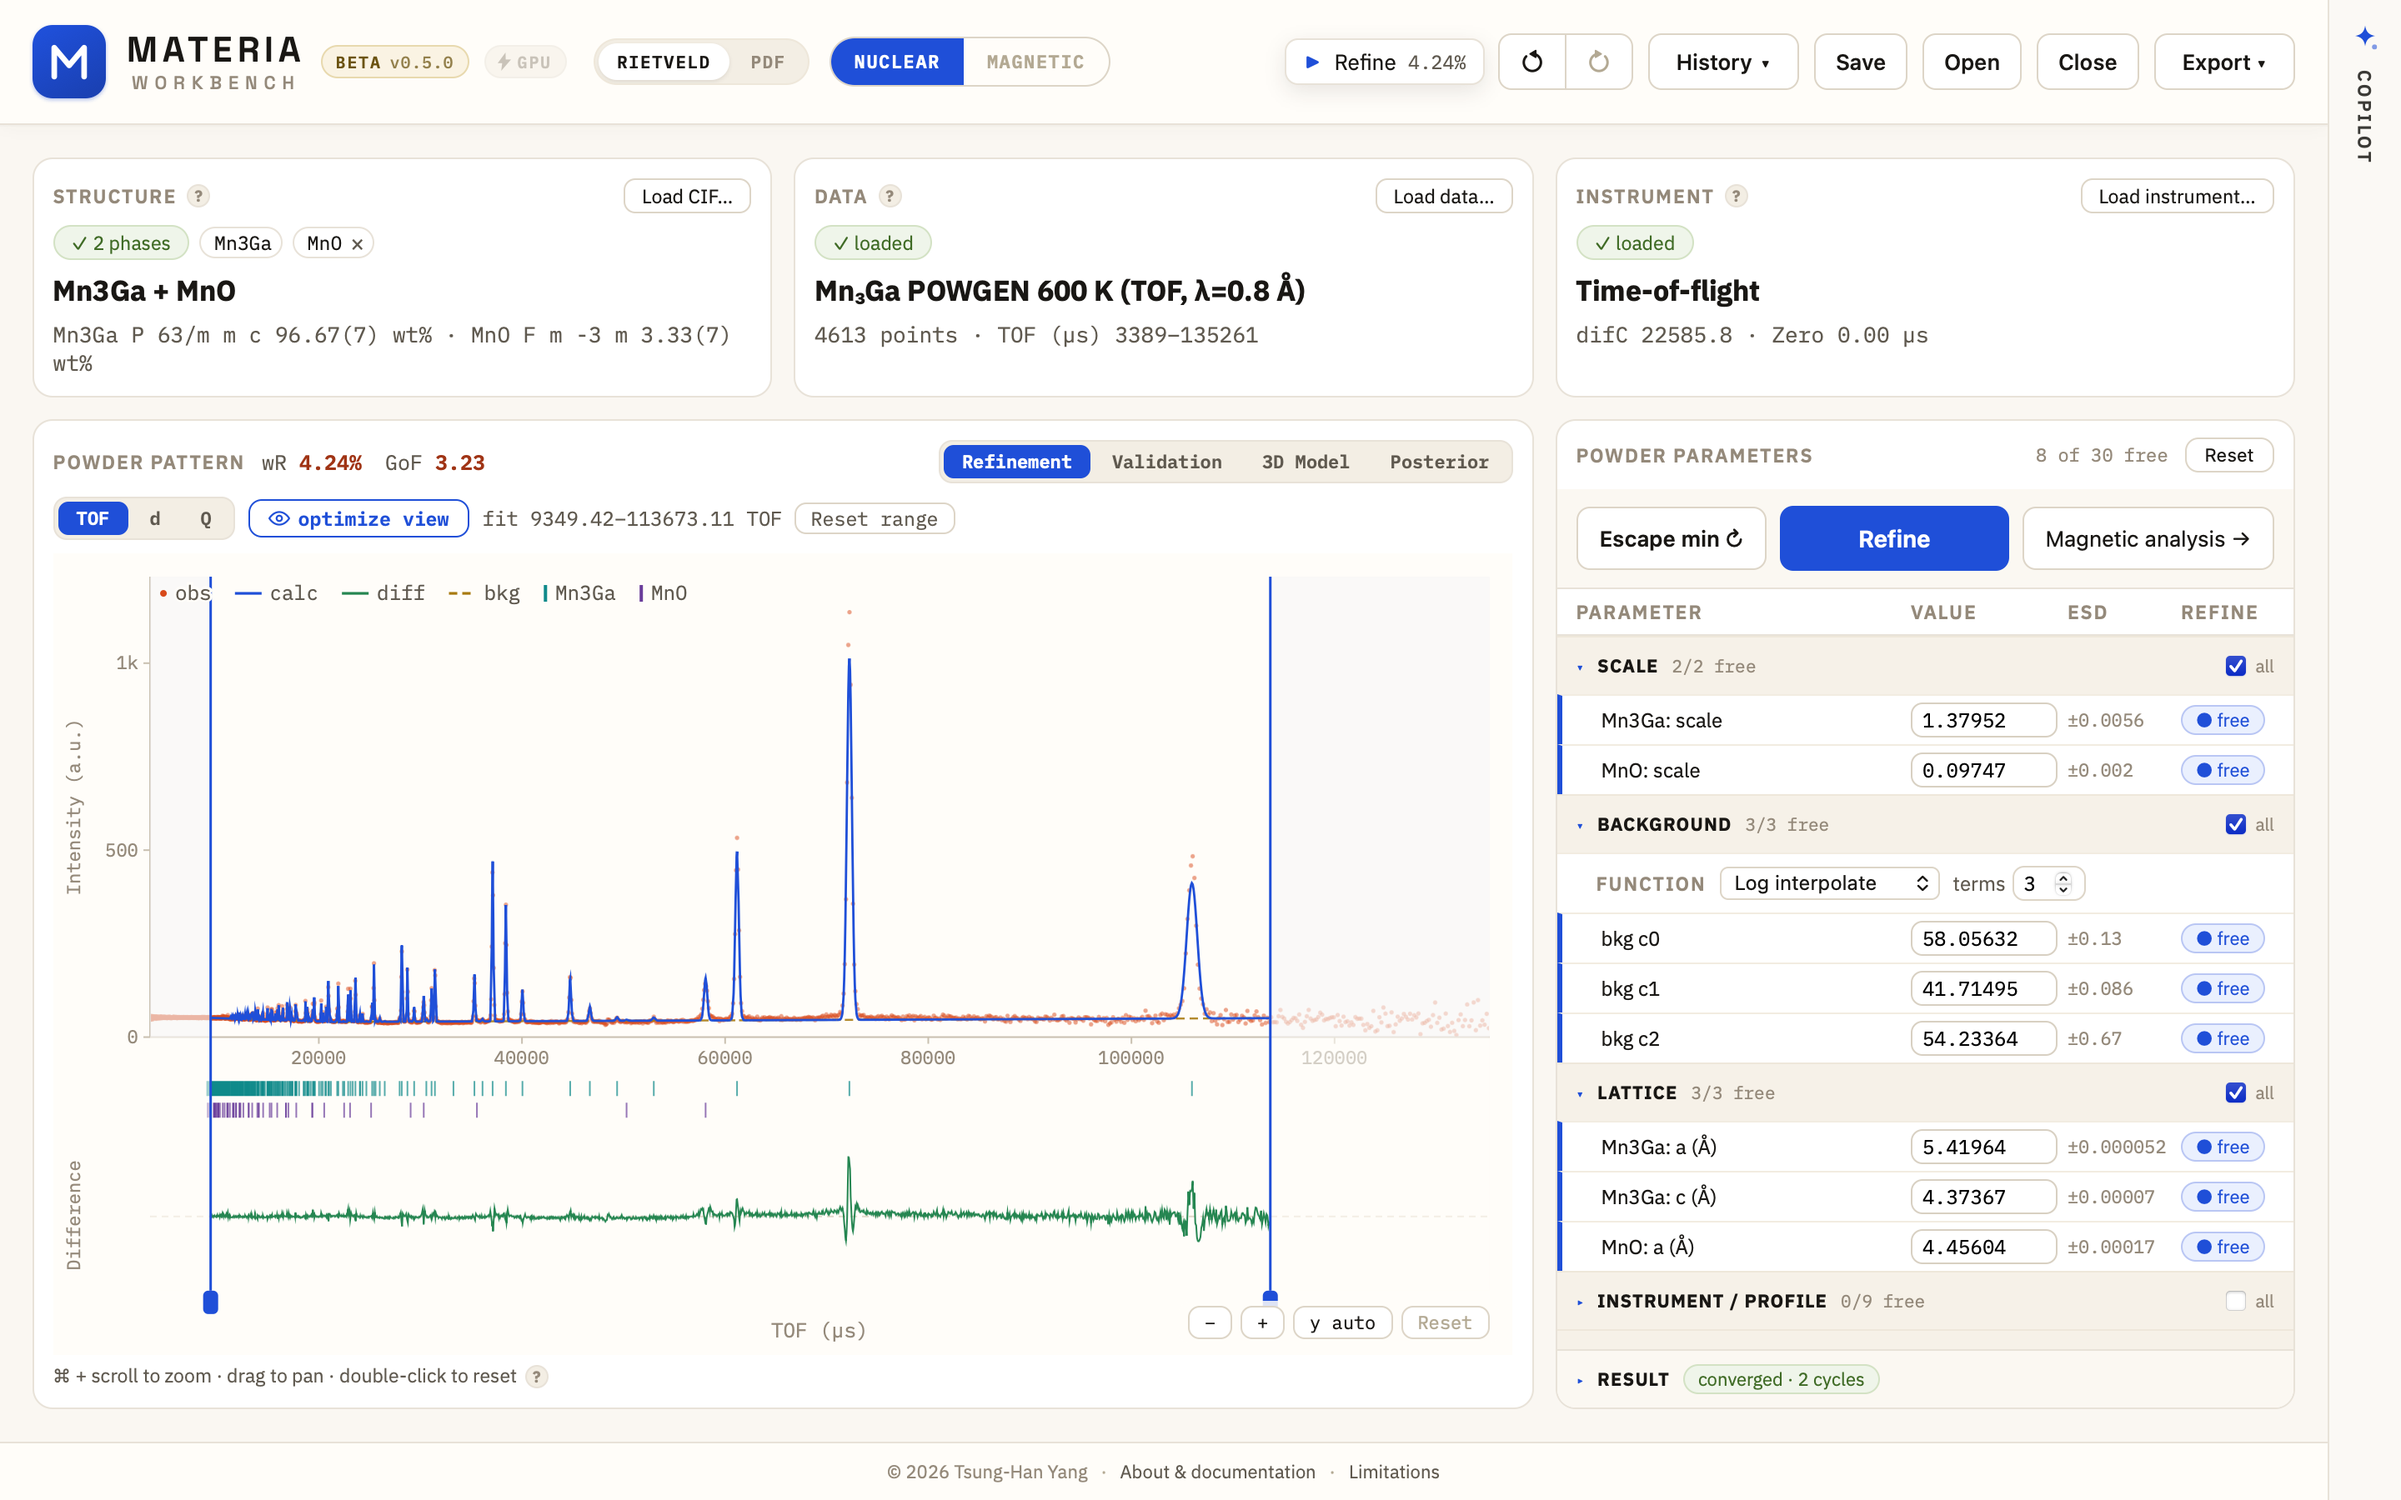
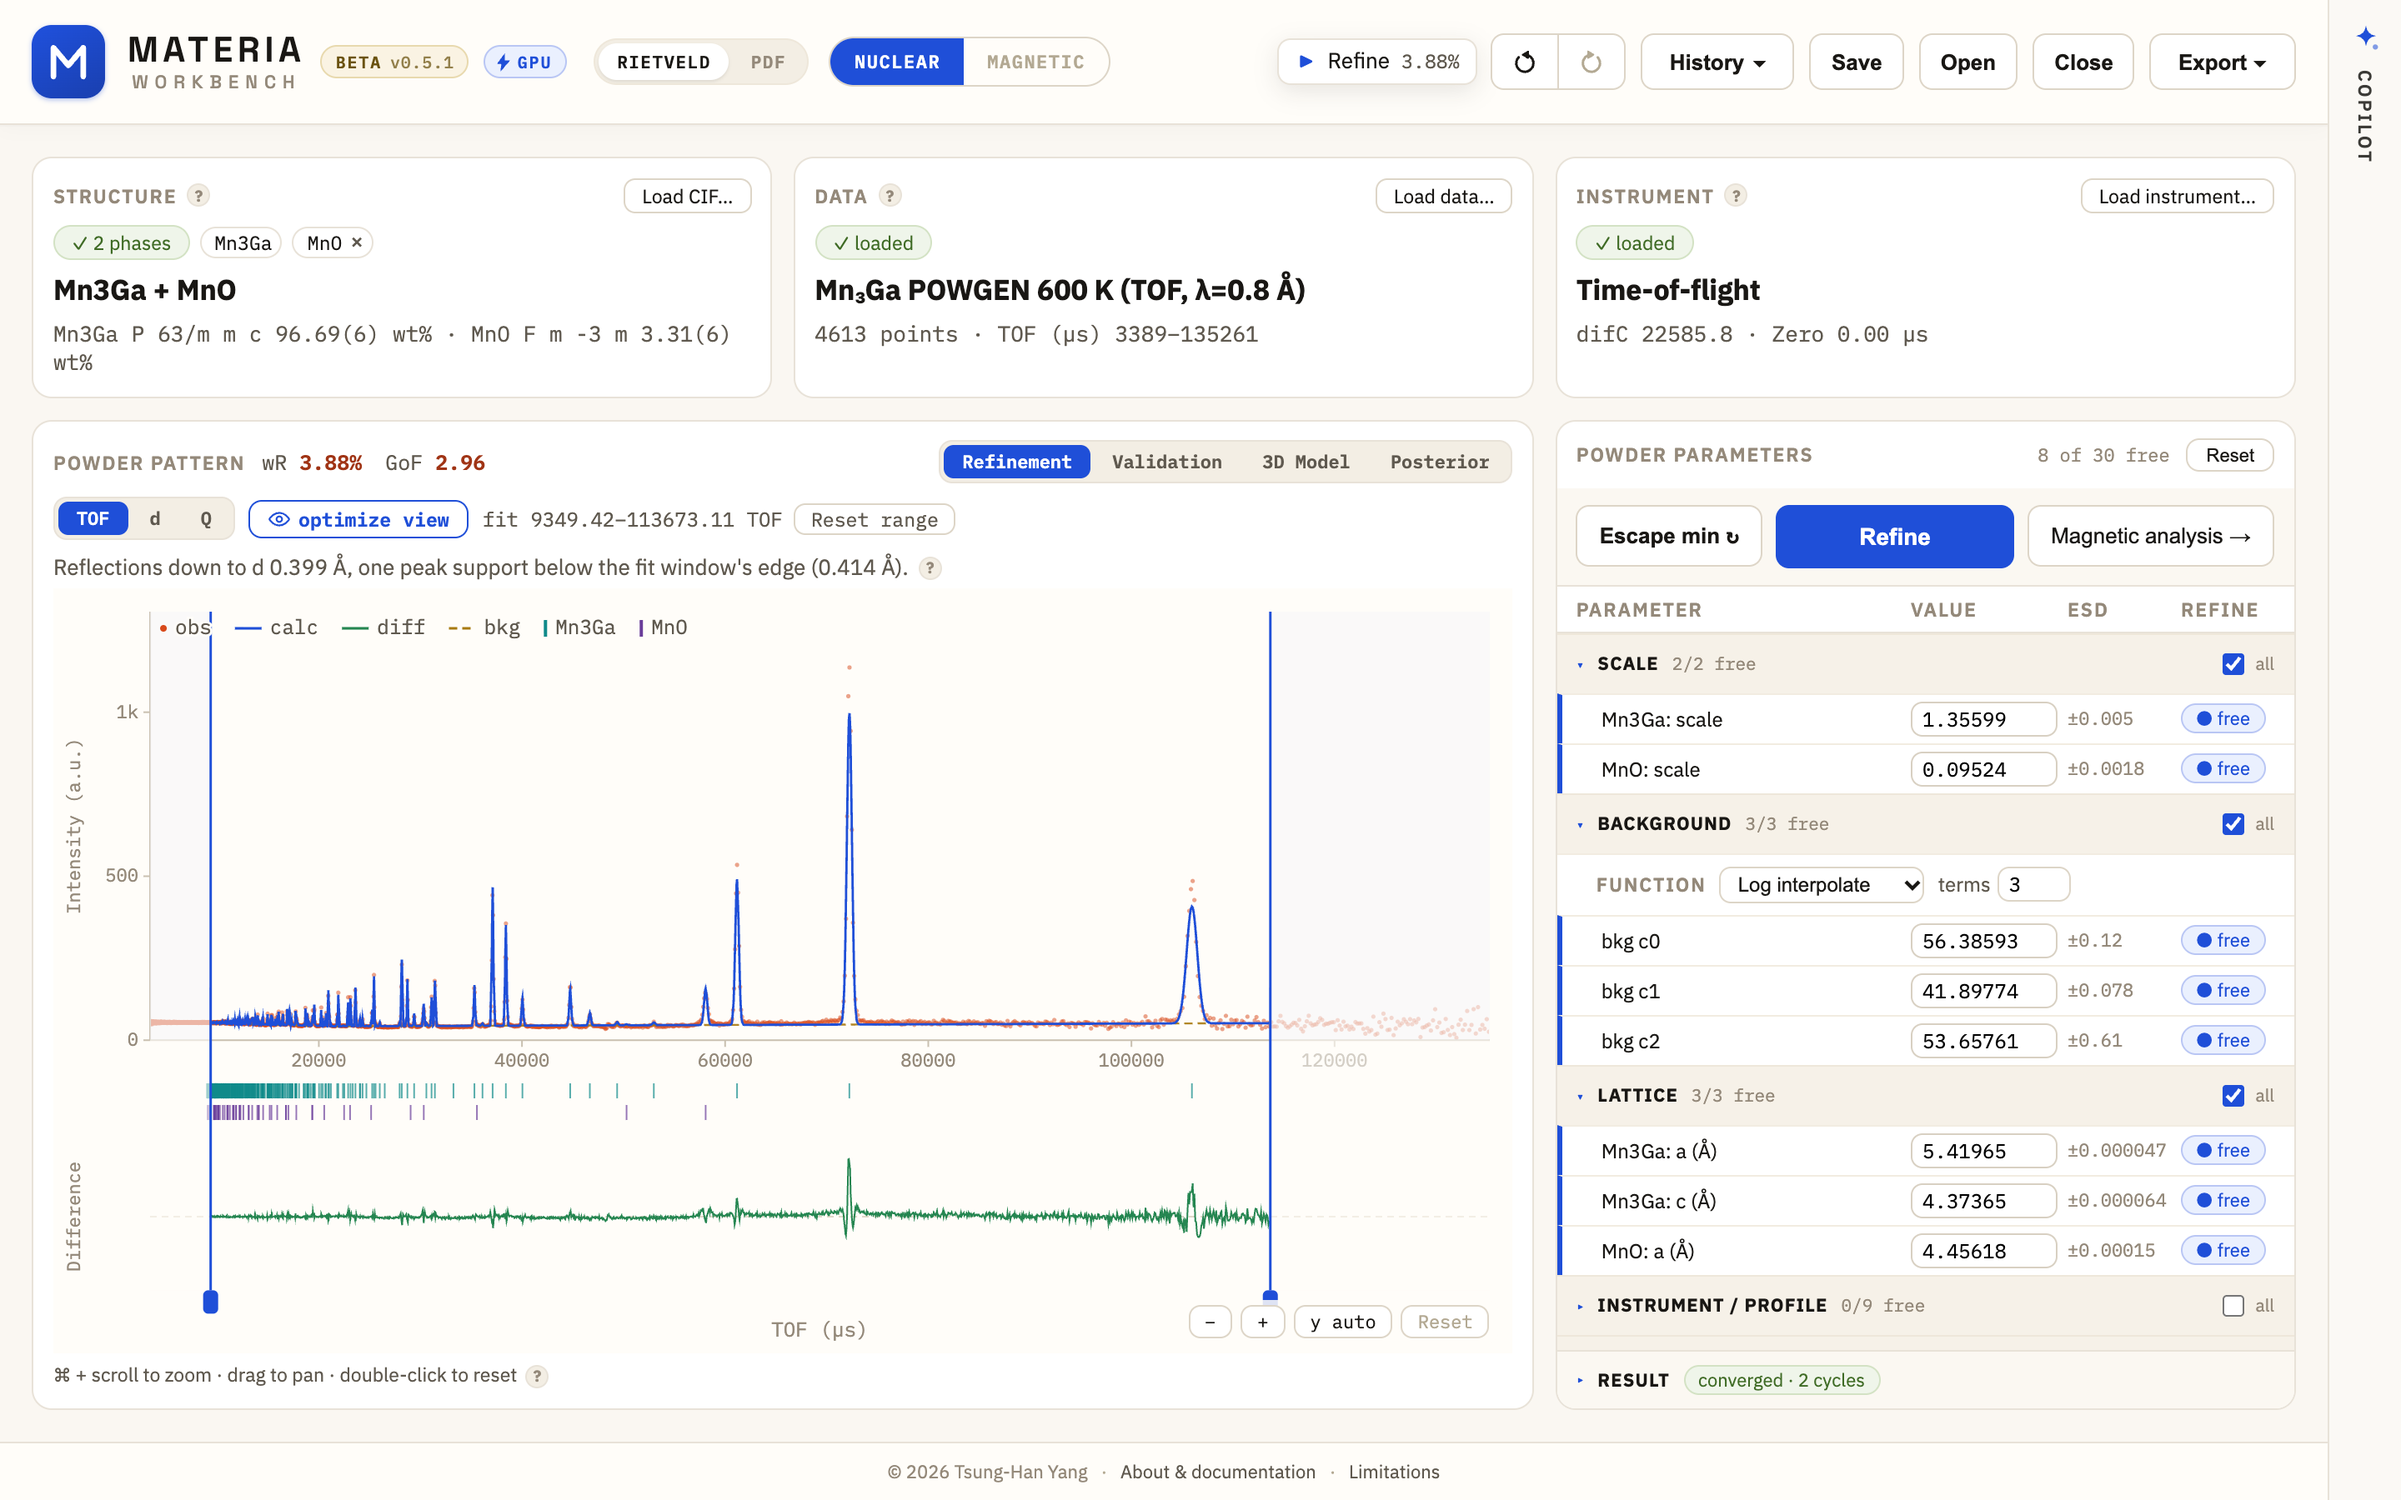
Docs and demo materials for THY-90: the demo's new numbers, the fit window as the shortest-d control
README (twice, the screenshot's alt text included), the user guide, the demo
script (wR 3.88 %, GoF 2.96, MnO 3.31(6) wt %) and the landing card (wR 3.9 %);
the README screenshot retaken at 1440x900@2x with the app's (c) line, now
with the line that says where the reflections stop. LIMITATIONS: where d_min
is and the points left out, the X-ray limit, the bin-centre and resolution
approximations, the constant-wavelength edge. CHANGELOG.

diff --git a/src/app/demos.ts b/src/app/demos.ts
@@ -22,7 +22,7 @@ export const DEMOS: readonly DemoEntry[] = [
     id: "rietveld",
     kicker: "Rietveld · reciprocal space",
     title: "Mn₃Ga neutron TOF",
-    blurb: "Two-phase POWGEN fit at 600 K (paramagnetic, with a MnO impurity) · wR 4.2%",
+    blurb: "Two-phase POWGEN fit at 600 K (paramagnetic, with a MnO impurity) · wR 3.9%",
   },
   {
     id: "magnetic",

diff --git a/docs/LIMITATIONS.md b/docs/LIMITATIONS.md
@@ -231,6 +231,20 @@ approximate, however plausible its output looks.
   range needing more than 300 000 reflection families (or 6×10⁷ index triples,
   or an index above 2047) is an error naming the cell, as a typo'd or diverged
   cell usually is.
+- Where d_min is: on time of flight, the fit window's short-d edge less one
+  peak support (the lines just outside the window are drawn, so every point in
+  it has all its lines), stopped earlier only where the peak terms give no
+  peak (σ², α or β not positive below some d: an instrument file's
+  polynomials past the range its standard covered); at constant wavelength,
+  the data's own range; for X-rays never below 0.25 Å (sin θ/λ = 2.0 Å⁻¹, the
+  range the four-Gaussian form factors are valid over). The points a list does
+  not reach are left out of the fit and of wR, GoF and the point count, and the
+  page says where the list stops and why. Magnetic satellites keep d ≥ 0.5 Å on
+  time of flight. A fresh page fits the whole pattern; when the window reaches
+  well below the last resolved lines (spacing under one line width, binning
+  included), the page and `check_fit_range` suggest trimming it there, which
+  is faster and changes nothing above. The Prefit's Le Bail list and the tick
+  rows take the same range.
 - Constant-wavelength peaks: Gaussian or pseudo-Voigt, with Caglioti U/V/W
   widths, a Thompson–Cox–Hastings Lorentzian size/strain term, and
   Finger–Cox–Jephcoat axial asymmetry.
@@ -245,7 +259,10 @@ approximate, however plausible its output looks.
   (GSAS-II's definitions, starting at GSAS-II's new-phase 1000 and 1 µm) and
   a Gaussian microstrain are rows beside them, and a profile stage refines the
   sample's rows. Where the file gives no positive width inside the data's
-  d-range the reflections are not drawn and the Instrument card says where.
+  d-range the reflections are not drawn and the Instrument card says where;
+  at the short-d end the list stops there and the points below are not
+  fitted. Just above such a d the decay rate β is small, so those few lines
+  carry long tails as the file gives them.
   The Lorentzian tails are drawn out to where they hold less than 0.02 % of a
   peak; the first evaluation of such a pattern is slow, and later ones reuse
   the peaks that did not move.
@@ -311,10 +328,19 @@ approximate, however plausible its output looks.
   On time-of-flight data it is a back-to-back exponential with four refined
   width terms (σ₁², σ₂², α, β₀), not the instrument's full resolution curve. An
   impurity's expansion is limited to ±3 %. The gate reads d ≥ 0.7 Å by default.
+- A TOF peak is evaluated at the bin centre, not integrated over the bin; at
+  short d, where a line is about one bin wide, that limits the accuracy.
+- The "last resolved lines" a trim is suggested at are read from the model
+  (each phase's lines at their calculated intensities and the profile's
+  widths), not from the data's noise.
+- A constant-wavelength list is the data's range: a line just beyond the
+  data's last point whose tail reaches into it is not drawn.
 
 **Not yet**
 - Spherical-harmonic texture; powder extinction; microabsorption (Brindley);
   flat-plate absorption.
+- X-ray form factors beyond sin θ/λ = 2.0 Å⁻¹ (Waasmaier–Kirfel, THY-92):
+  until then an X-ray list stops at d = 0.25 Å.
 - High-angle axial asymmetry; the Ikeda–Carpenter moderator peak shape; TOF
   absorption and extinction.
 - Sample size and Lorentzian microstrain rows for a FullProf session; FullProf's

diff --git a/docs/DEMO_SCRIPT.md b/docs/DEMO_SCRIPT.md
@@ -43,7 +43,7 @@ Do this 15 minutes before, on the machine you will present from.
 | # | Clock | Do | Say |
 | --- | --- | --- | --- |
 | 0 | 0:00–0:30 | The start page. | "Crystal and magnetic structure refinement in the browser: nothing to install, and the data never leave this machine." |
-| 1 | 0:30–1:30 | **Rietveld · Mn₃Ga neutron TOF** (0.3 s), then **Refine** (0.2 s). Point at wR 4.24 %, GoF 3.23 and MnO 3.33(7) wt % on the Structure card. Open **Validation**. | "A two-phase time-of-flight neutron fit; every number with its esd from the engine, and Validation reads the fit against an acceptance bar." |
+| 1 | 0:30–1:30 | **Rietveld · Mn₃Ga neutron TOF** (0.3 s), then **Refine** (0.2 s). Point at wR 3.88 %, GoF 2.96 and MnO 3.31(6) wt % on the Structure card. Open **Validation**. | "A two-phase time-of-flight neutron fit; every number with its esd from the engine, and Validation reads the fit against an acceptance bar." |
 | 2 | 1:30–2:45 | **Magnetic analysis →**, **Include them in the k-search**, **Search k from … peaks** (instant), then **Rank 14 candidates against the data** (18–29 s; narrate while it runs). | "From the residual to k, to the magnetic space groups k allows, each fitted against the data. At 600 K this sample is paramagnetic, and the app says no candidate beats the nuclear-only fit instead of inventing moments." |
 | 3 | 2:45–3:30 | **Close** (**Discard** if asked), **PDF · GaTa₄Se₈ X-ray G(r)** (about 1 s), **Refine** (1 s). | "The same engine in real space: an X-ray PDF at 299 K, fitted with the cubic average structure, Rw 8.1 %." |
 | 4 | 3:30–4:45 | **Subgroups**: the 2×2×2 list streams in (about 8 s; narrate). The **Tree** shows F-43m's five maximal subgroups; click **P-43m #215** (X·1) for its detail. The k-point chips carry the Bilbao server's names: X, L, W, and on the lines **Δ (0, 0, 1/2)** and **Σ (0, 1/2, 1/2)**. Then **List**, **Supercell** → **1×1×2** (about 4 s), **Find** `P-42_1m`, click the 1×1×2 row (24 dom). | "The subgroup engine is built in, not looked up: irreps, isotropy subgroups and the lattice within a supercell, checked against Bilbao and ISODISTORT." |

diff --git a/CHANGELOG.md b/CHANGELOG.md
@@ -106,6 +106,32 @@ release fixes bugs.
 
 ### Changed
 
+- **Reflections at short d on time of flight follow the fit window (THY-90).**
+  The fixed floor at d = 0.5 Å is gone: a TOF reflection list reaches the fit
+  window's short-d edge less one peak support, and stops earlier only where
+  the peak terms define no peak (σ², α or β not positive, an instrument file
+  extrapolated past its standard's range). X-ray lists stop at d = 0.25 Å
+  (sin θ/λ = 2.0 Å⁻¹, the form-factor table's range). Points a list does not
+  reach are left out of the fit and of wR, GoF and the point count; before,
+  they were fitted with the background alone, which biased the background and
+  the ADPs. A line under the plot toolbar says where the reflections stop and
+  why, how many points are left out, and, when the window reaches well below
+  the last resolved lines, the d to trim it at; `check_fit_range` proposes
+  that trim ("unresolved-lines") and `get_state` and `check_fit_range` carry
+  the line (`reflectionsTo`). The Prefit's Le Bail list and the tick rows take
+  the same range. Magnetic satellites keep d ≥ 0.5 Å. A refinement step that
+  makes the page's own TOF widths invalid inside the data is rejected, as one
+  on an instrument file's already was.
+- **The bundled Mn₃Ga demo moves: wR 4.24 % → 3.88 %, GoF 3.23 → 2.96.** Its
+  window starts at d = 0.414 Å, and 160 of its reflection families were not
+  calculated. The snapshot is re-made with the same steps: B(Mn)
+  1.096 → 1.008(25) Å², B(Ga) 0.961 → 0.922(14) Å², MnO 3.33(7) → 3.31(6) wt %.
+- A fresh time-of-flight page still fits the whole pattern, so data that
+  reach far below their last resolved lines refine more slowly than before
+  (the bundled POWGEN pattern to 0.150 Å: about 15 ms per pattern against
+  2 ms with the demo's window); trimming the window as suggested restores it.
+
+
 - **Refine moments runs as rounds** (powder page). The moments with every
   nuclear row held, then the scale and the background with the moments held,
   then the moments again, until no moment moves by 0.1 of its esd; at most

diff --git a/docs/USER_GUIDE.md b/docs/USER_GUIDE.md
@@ -43,7 +43,7 @@ The start page shows the **Structure**, **Data** and **Instrument** cards above
 
 - **Rietveld · Mn₃Ga neutron TOF**: a two-phase fit of POWGEN time-of-flight
   data, Mn₃Ga with a MnO impurity. At 600 K the sample is paramagnetic. It
-  opens at wR 4.24 % (GoF 3.23) on a three-point log-interpolate background,
+  opens at wR 3.88 % (GoF 2.96) on a three-point log-interpolate background,
   with the scale, background and cell of both phases free.
 - **PDF · GaTa₄Se₈ X-ray G(r)**: a real-space fit of synchrotron
   total-scattering data at 299 K, with the cubic average structure.
@@ -304,6 +304,22 @@ magnetic model are steps too. Loading a new dataset starts a new history.
 
 - Drag the blue handles on the plot to set the fit window. **Reset range**
   returns to the whole pattern, and **optimize view** zooms onto the window.
+- On time-of-flight data the window's short-d edge is also where the
+  reflections stop: every reflection whose peak reaches a point in the window
+  is calculated, none below. The line under the plot toolbar says where they
+  stop and why ("Reflections down to d … Å, one peak support below the fit
+  window's edge"). A narrower window at short d fits faster and changes
+  nothing above it.
+- The list stops earlier where the model is not valid: below a d where the
+  instrument file's peak terms give no peak (σ², α or β not positive), and,
+  for X-rays, below d = 0.25 Å (the form-factor table's range). The points
+  there are left out of the fit, wR and GoF, and the line, in amber, says how
+  many and why.
+- When the window reaches well below the last resolved lines (a fresh page
+  fits the whole pattern), the same line names the d where they stop and
+  suggests trimming the window there. The Copilot's `check_fit_range`
+  proposes the same cut. Below that d the lines merge; they are calculated,
+  so the fit is complete, only slower.
 - Click a Bragg tick to spotlight its (hkl). The unit buttons (**2θ**,
   **d**, **Q**, **TOF**) change the axis only.
 - To add a phase, load the data, then click **Add CIF…**. Each phase gets its

diff --git a/README.md b/README.md
@@ -13,7 +13,7 @@ language model beside the analysis: it changes things only through the page's ow
 **Live site: [drthyang.github.io/materia-platform](https://drthyang.github.io/materia-platform/)**
 
 <p align="center">
-  <img src="docs/media/desktop.png" alt="The Rietveld page on the bundled Mn₃Ga demo: a two-phase Mn₃Ga and MnO fit of POWGEN time-of-flight neutron data at wR 4.24 %, with observed, calculated and difference curves, a row of Bragg ticks for each phase, and the parameter table with esds" width="100%" />
+  <img src="docs/media/desktop.png" alt="The Rietveld page on the bundled Mn₃Ga demo: a two-phase Mn₃Ga and MnO fit of POWGEN time-of-flight neutron data at wR 3.88 %, with observed, calculated and difference curves, a row of Bragg ticks for each phase, and the parameter table with esds" width="100%" />
 </p>
 
 ## What it does
@@ -70,7 +70,7 @@ Step by step: [set up the Copilot](docs/COPILOT_SETUP.md).
 Both demos are public data and open on a converged fit.
 
 1. **Rietveld.** On the start page click the **Mn₃Ga neutron TOF** demo, then **Refine**: a two-phase
-   fit at wR 4.24 %, with the MnO impurity's weight fraction and its esd. **Validation** gives the
+   fit at wR 3.88 %, with the MnO impurity's weight fraction and its esd. **Validation** gives the
    verdict against the acceptance bar.
 2. **The magnetic step.** Click **Magnetic analysis →**, **Include them in the k-search**,
    **Search k from … peaks**, then **Rank 14 candidates against the data** (about half a minute, with progress
